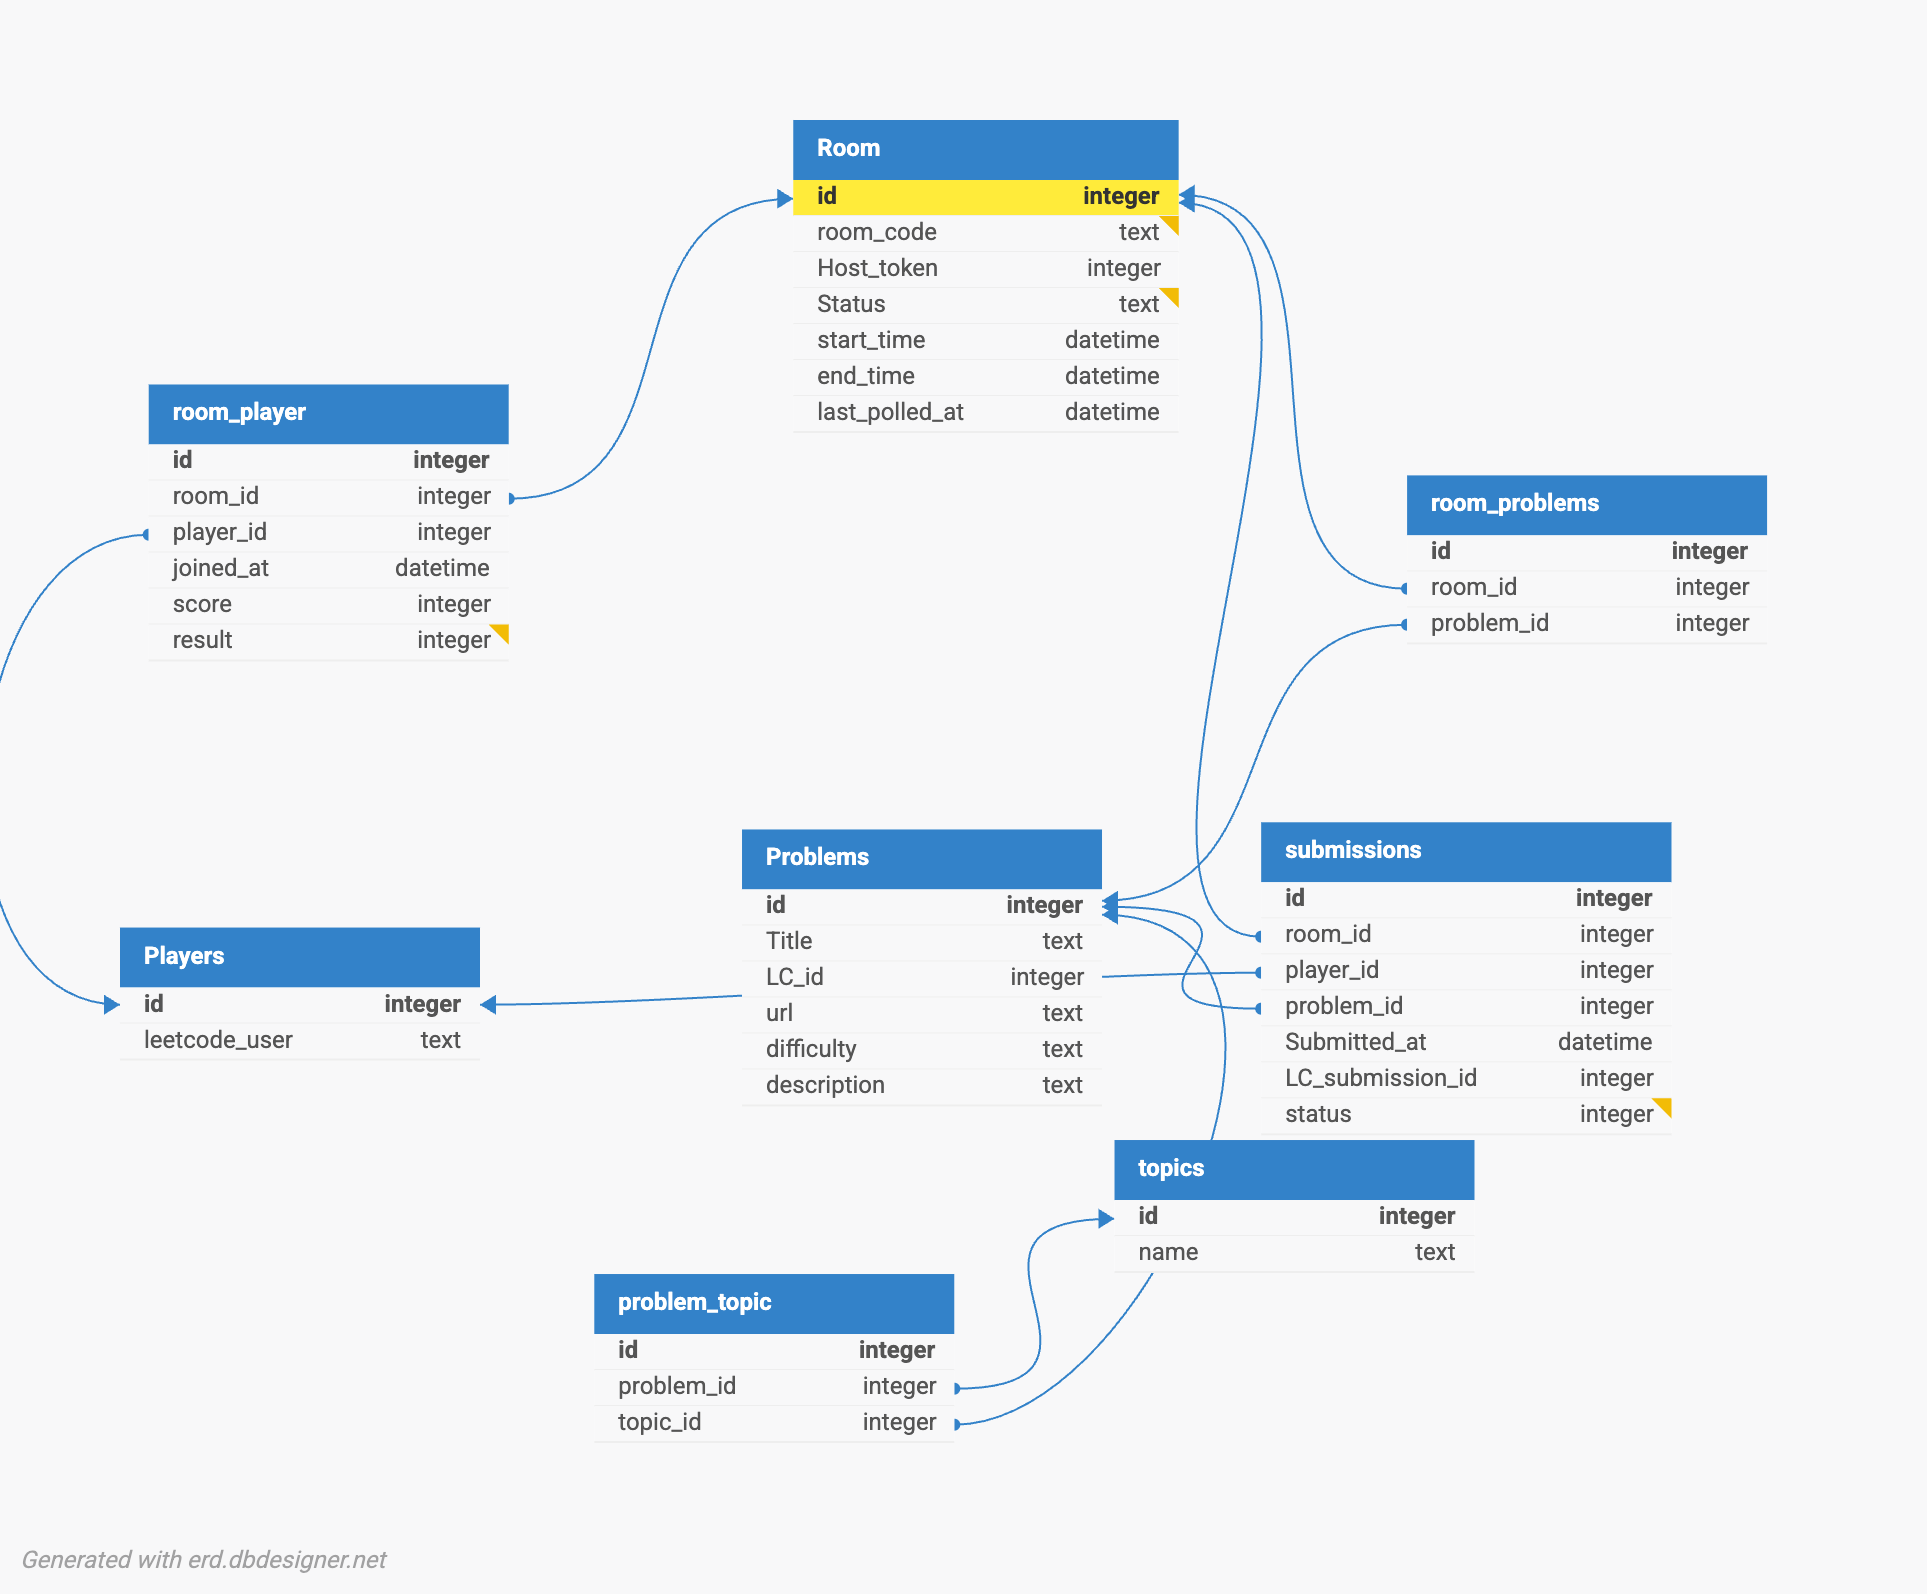
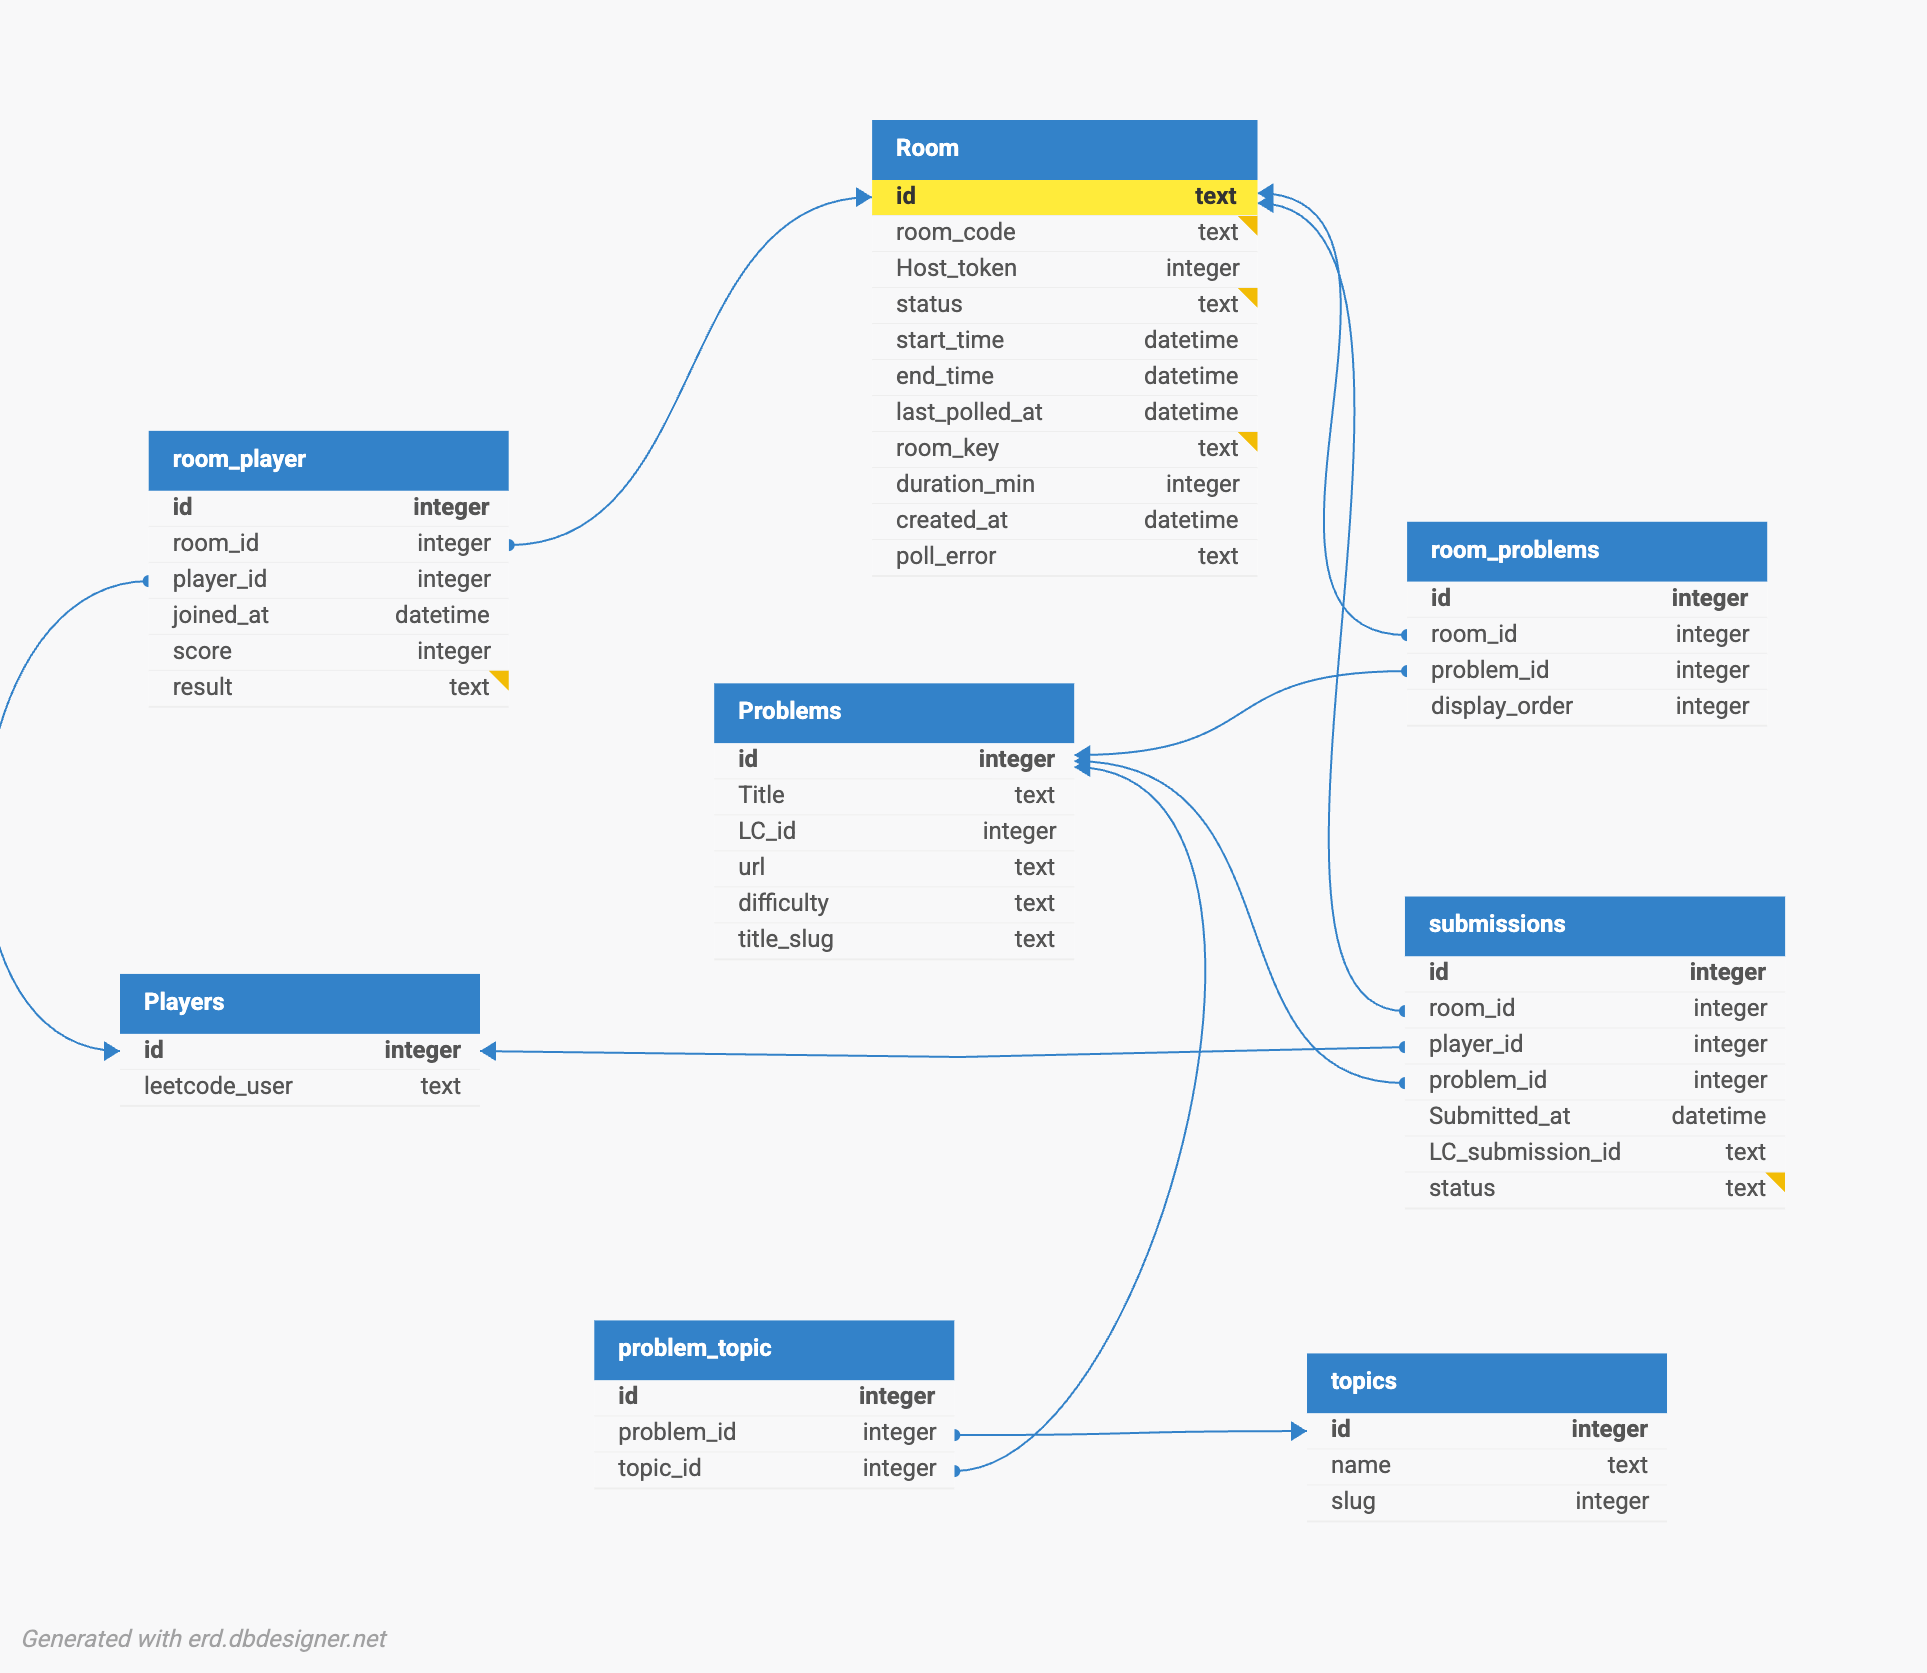
started working on database

diff --git a/ADR.md b/ADR.md
@@ -6,17 +6,13 @@ For this project, my idea was to build a game where players can face off against
 Tech Stack:
 
 - Frontend
-    - For my frontend I decided to use react since:
-        1. I am familiar with it
-        2. I can build quickly with it
-        3. 
+    - react static pages served from the api
 - Backend:
     - FastAPI
 - Database:
     - SQLite
 - APIS: 
     - Leetcode Graphql API
-- Tools Used: 
 
 Database design:
 -the data
